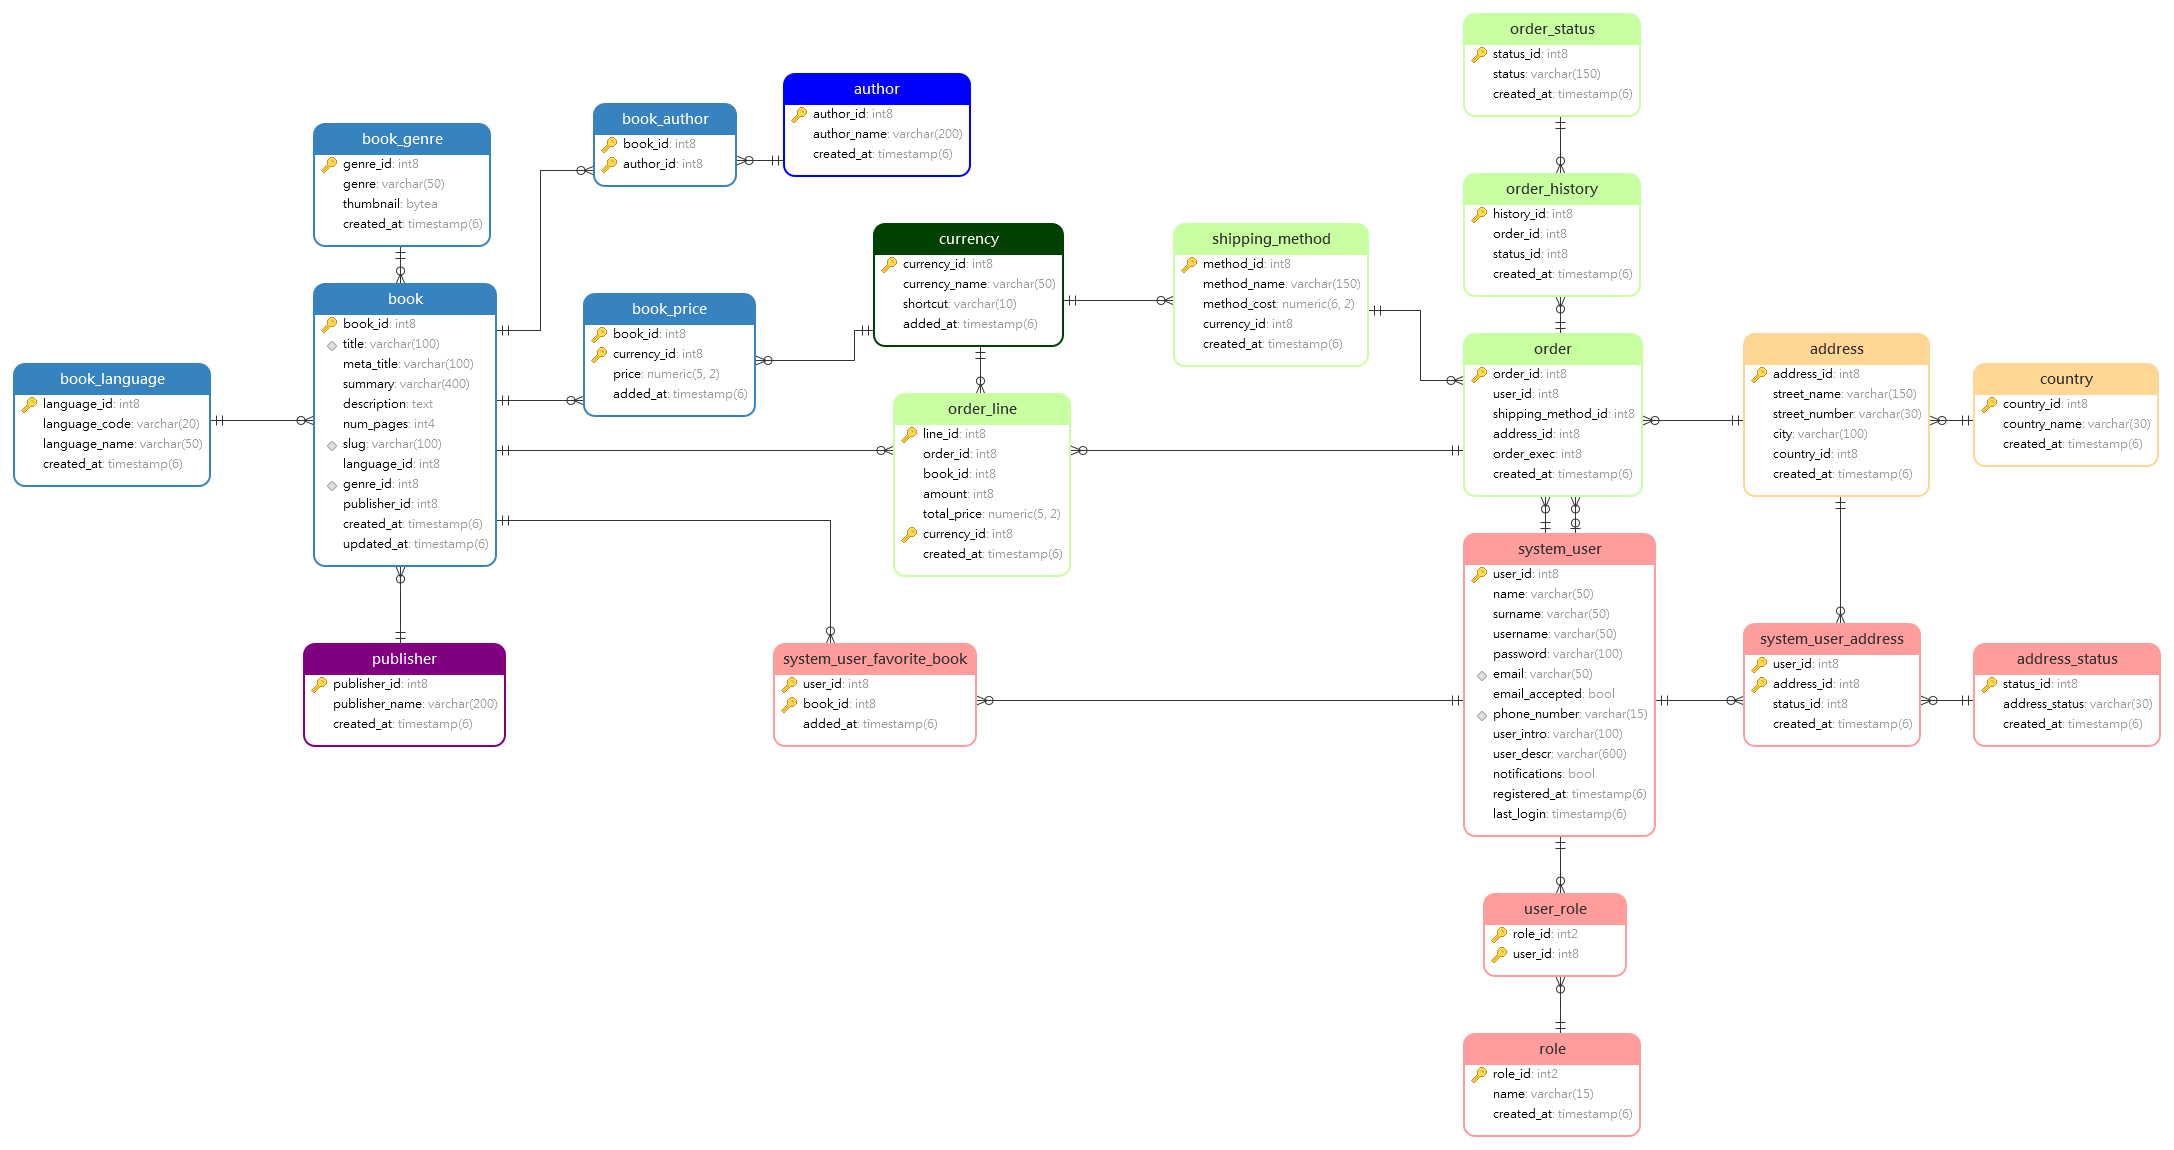
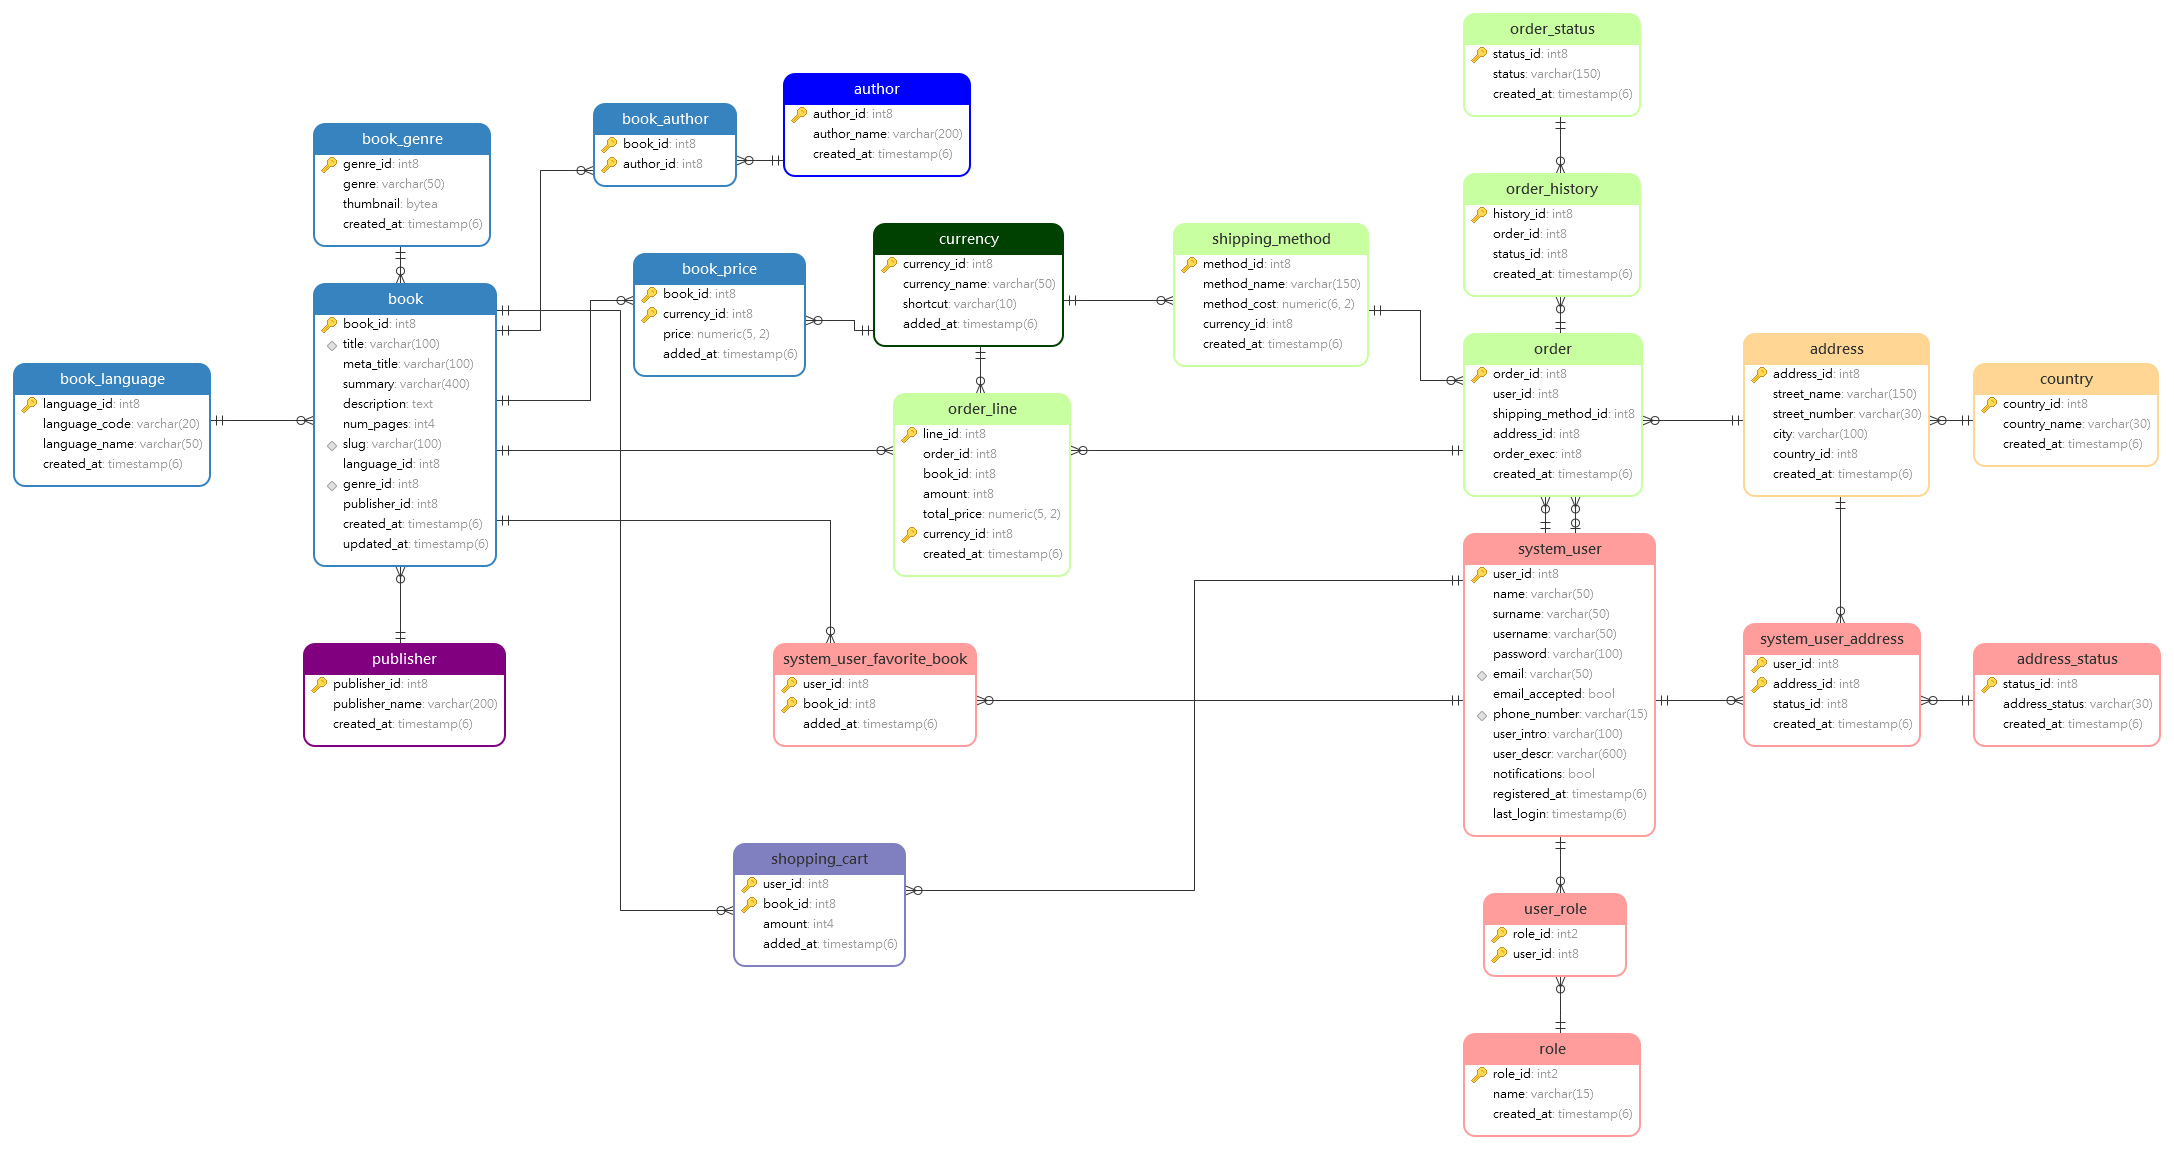
mkrolczyk - added shopping cart table, created API endpoints for adding and removing item from shopping cart, added endpoints for increasing and decreasing amount of book of selected type

Changed region(s): [[0.2466, 0.213, 0.3698, 0.3652], [0.339, 0.7304, 0.4315, 0.8217]]

diff --git a/services/bookshop/src/repository/ShoppingCartRepository.php b/services/bookshop/src/repository/ShoppingCartRepository.php
@@ -1,0 +1,85 @@
+<?php
+
+require_once 'Repository.php';
+
+class ShoppingCartRepository extends Repository {
+
+    public function addToShoppingCart(string $userId, int $bookId, int $amount): bool {
+
+        $stmt = $this->database->connect()->prepare('
+            INSERT INTO 
+                shopping_cart (user_id, book_id, amount)
+            VALUES 
+                (:userId, :bookId, :amount)
+            ON CONFLICT (user_id, book_id) DO NOTHING
+        ');
+
+        $stmt->bindParam(':userId', $userId, PDO::PARAM_INT);
+        $stmt->bindParam(':bookId', $bookId, PDO::PARAM_INT);
+        $stmt->bindParam(':amount', $amount, PDO::PARAM_INT);
+
+        return $stmt->execute();
+    }
+
+    public function removeFromShoppingCart(string $userId, int $bookId): bool {
+
+        $stmt = $this->database->connect()->prepare('
+            DELETE FROM 
+                shopping_cart
+            WHERE 
+                user_id = :userId AND
+                book_id = :bookId
+        ');
+
+        $stmt->bindParam(':userId', $userId, PDO::PARAM_INT);
+        $stmt->bindParam(':bookId', $bookId, PDO::PARAM_INT);
+
+        $stmt->execute();
+
+        return ($stmt->rowCount() > 0);
+    }
+
+    public function increaseAmountOfGivenBook(string $userId, int $bookId) {
+
+        $stmt = $this->database->connect()->prepare('
+            UPDATE 
+                shopping_cart 
+            SET 
+                "amount" = "amount" + 1 
+            WHERE 
+                user_id = :userid AND
+                book_id = :bookid
+         ');
+
+        $stmt->bindParam(':userid', $userId, PDO::PARAM_INT);
+        $stmt->bindParam(':bookid', $bookId, PDO::PARAM_INT);
+
+        $stmt->execute();
+
+        return ($stmt->rowCount() > 0);
+    }
+
+    public function decreaseAmountOfGivenBook(string $userId, int $bookId): bool {
+        $stmt = $this->database->connect()->prepare('
+            UPDATE 
+                shopping_cart 
+            SET 
+                amount = 
+                    CASE WHEN amount > 1 
+                        THEN amount - 1 
+                        ELSE amount 
+                    END
+            WHERE 
+                user_id = :userId AND
+                book_id = :bookId
+        ');
+
+        $stmt->bindParam(':userId', $userId, PDO::PARAM_INT);
+        $stmt->bindParam(':bookId', $bookId, PDO::PARAM_INT);
+
+        $stmt->execute();
+
+        return ($stmt->rowCount() > 0);
+    }
+
+}

diff --git a/services/bookshop/src/controller/api/ShoppingCartController.php b/services/bookshop/src/controller/api/ShoppingCartController.php
@@ -1,0 +1,64 @@
+<?php
+
+require_once __DIR__.'/../../repository/ShoppingCartRepository.php';
+
+class ShoppingCartController {
+
+    private ShoppingCartRepository $shoppingCartRepository;
+
+    public function __construct() {
+        $this->shoppingCartRepository = new ShoppingCartRepository();
+    }
+
+    public function addToShoppingCart(int $bookId, int $amount): string {
+
+        $shoppingCartResult = $this->shoppingCartRepository->addToShoppingCart($_SESSION["id"], $bookId, $amount);
+
+        if($shoppingCartResult) {
+            $result = array("status" => 200 , "message" => "Book added!");
+        } else {
+            $result = array("status" => 400 , "message" => "Book already present in shopping cart");
+        }
+
+        return json_encode($result);
+    }
+
+    public function removeFromShoppingCart(int $bookId): string {
+
+        $shoppingCartResult = $this->shoppingCartRepository->removeFromShoppingCart($_SESSION["id"], $bookId);
+
+        if($shoppingCartResult) {
+            $result = array("status" => 200 , "message" => "Book Removed!");
+        } else {
+            $result = array("status" => 400 , "message" => "No book present in shopping cart");
+        }
+
+        return json_encode($result);
+    }
+
+    public function increaseAmountOfGivenBook(int $bookId): string {
+
+        $increaseItemResult = $this->shoppingCartRepository->increaseAmountOfGivenBook($_SESSION["id"], $bookId);
+
+        if($increaseItemResult) {
+            $result = array("status" => 200 , "message" => "");
+        } else {
+            $result = array("status" => 400 , "message" => "Can't add more books");
+        }
+
+        return json_encode($result);
+    }
+
+    public function decreaseAmountOfGivenBook(int $bookId): string {
+
+        $increaseItemResult = $this->shoppingCartRepository->decreaseAmountOfGivenBook($_SESSION["id"], $bookId);
+
+        if($increaseItemResult) {
+            $result = array("status" => 200 , "message" => "");
+        } else {
+            $result = array("status" => 400 , "message" => "Can't decrease number of books");
+        }
+
+        return json_encode($result);
+    }
+}

diff --git a/services/bookshop/public/views/book-detail.php b/services/bookshop/public/views/book-detail.php
@@ -33,14 +33,14 @@
                     <div class="book-detail-content-upper-section-cover">
                         <div class="book-detail-content-upper-section-cover-image">
                             <?php
-                            $bookTitle = strtolower(str_replace(' ', '-', $bookResult->getTitle()));
-                            $coverImagePath = "./public/img/books/{$bookTitle}.png";
+                                $bookTitle = strtolower(str_replace(' ', '-', $bookResult->getTitle()));
+                                $coverImagePath = "./public/img/books/{$bookTitle}.png";
 
-                            if (file_exists($coverImagePath)) {
-                                echo '<img src="' . $coverImagePath . '" class="book-detail-content-upper-section-cover-image" alt="Book cover">';
-                            } else {
-                                echo '<img src="./public/img/books/mock-book-detail-cover.png" class="book-detail-content-upper-section-cover-image" alt="Book cover">';
-                            }
+                                if (file_exists($coverImagePath)) {
+                                    echo '<img src="' . $coverImagePath . '" class="book-detail-content-upper-section-cover-image" alt="Book cover">';
+                                } else {
+                                    echo '<img src="./public/img/books/mock-book-detail-cover.png" class="book-detail-content-upper-section-cover-image" alt="Book cover">';
+                                }
                             ?>
                         </div>
                     </div>

diff --git a/services/bookshop/api/v1/cart/add-to-shopping-cart.php b/services/bookshop/api/v1/cart/add-to-shopping-cart.php
@@ -1,0 +1,20 @@
+<?php
+
+require_once __DIR__ . '/../../../src/controller/api/ShoppingCartController.php';
+
+header("Access-Control-Allow-Origin: *");
+header("Content-Type: application/json; charset=UTF-8");
+header("Access-Control-Allow-Methods: POST");
+header("Access-Control-Allow-Headers: Content-Type, Access-Control-Allow-Headers, Authorization, X-Requested-With");
+
+$shoppingCartController = new ShoppingCartController();
+
+if(
+    $_SERVER["REQUEST_METHOD"] == "POST" &&
+    $_SESSION["authenticated"] &&
+    $_SESSION["roleId"] == Role::ROLE_USER) {
+
+    echo $shoppingCartController->addToShoppingCart($_POST['bookId'], $_POST['amount']);
+} else {
+    echo json_encode(array("status" => 405 , "message" => 'Method not allowed'));
+}

diff --git a/services/bookshop/api/v1/cart/decrease-amount-of-book.php b/services/bookshop/api/v1/cart/decrease-amount-of-book.php
@@ -1,0 +1,20 @@
+<?php
+
+require_once __DIR__ . '/../../../src/controller/api/ShoppingCartController.php';
+
+header("Access-Control-Allow-Origin: *");
+header("Content-Type: application/json; charset=UTF-8");
+header("Access-Control-Allow-Methods: POST");
+header("Access-Control-Allow-Headers: Content-Type, Access-Control-Allow-Headers, Authorization, X-Requested-With");
+
+$shoppingCartController = new ShoppingCartController();
+
+if(
+    $_SERVER["REQUEST_METHOD"] == "POST" &&
+    $_SESSION["authenticated"] &&
+    $_SESSION["roleId"] == Role::ROLE_USER) {
+
+    echo $shoppingCartController->decreaseAmountOfGivenBook($_POST['bookId']);
+} else {
+    echo json_encode(array("status" => 405 , "message" => 'Method not allowed'));
+}

diff --git a/services/bookshop/api/v1/cart/increase-amount-of-book.php b/services/bookshop/api/v1/cart/increase-amount-of-book.php
@@ -1,0 +1,20 @@
+<?php
+
+require_once __DIR__ . '/../../../src/controller/api/ShoppingCartController.php';
+
+header("Access-Control-Allow-Origin: *");
+header("Content-Type: application/json; charset=UTF-8");
+header("Access-Control-Allow-Methods: POST");
+header("Access-Control-Allow-Headers: Content-Type, Access-Control-Allow-Headers, Authorization, X-Requested-With");
+
+$shoppingCartController = new ShoppingCartController();
+
+if(
+    $_SERVER["REQUEST_METHOD"] == "POST" &&
+    $_SESSION["authenticated"] &&
+    $_SESSION["roleId"] == Role::ROLE_USER) {
+
+    echo $shoppingCartController->increaseAmountOfGivenBook($_POST['bookId']);
+} else {
+    echo json_encode(array("status" => 405 , "message" => 'Method not allowed'));
+}

diff --git a/services/bookshop/api/v1/cart/remove-from-shopping-cart.php b/services/bookshop/api/v1/cart/remove-from-shopping-cart.php
@@ -1,0 +1,20 @@
+<?php
+
+require_once __DIR__ . '/../../../src/controller/api/ShoppingCartController.php';
+
+header("Access-Control-Allow-Origin: *");
+header("Content-Type: application/json; charset=UTF-8");
+header("Access-Control-Allow-Methods: POST");
+header("Access-Control-Allow-Headers: Content-Type, Access-Control-Allow-Headers, Authorization, X-Requested-With");
+
+$shoppingCartController = new ShoppingCartController();
+
+if(
+    $_SERVER["REQUEST_METHOD"] == "POST" &&
+    $_SESSION["authenticated"] &&
+    $_SESSION["roleId"] == Role::ROLE_USER) {
+
+    echo $shoppingCartController->removeFromShoppingCart($_POST['bookId']);
+} else {
+    echo json_encode(array("status" => 405 , "message" => 'Method not allowed'));
+}
